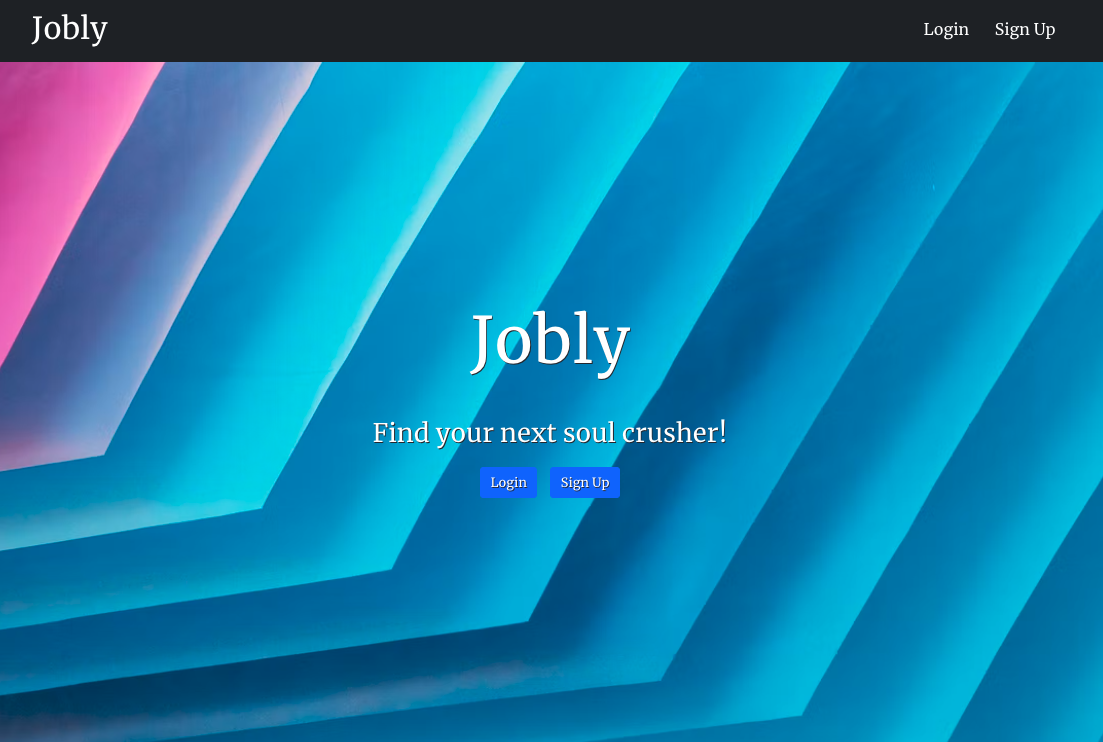
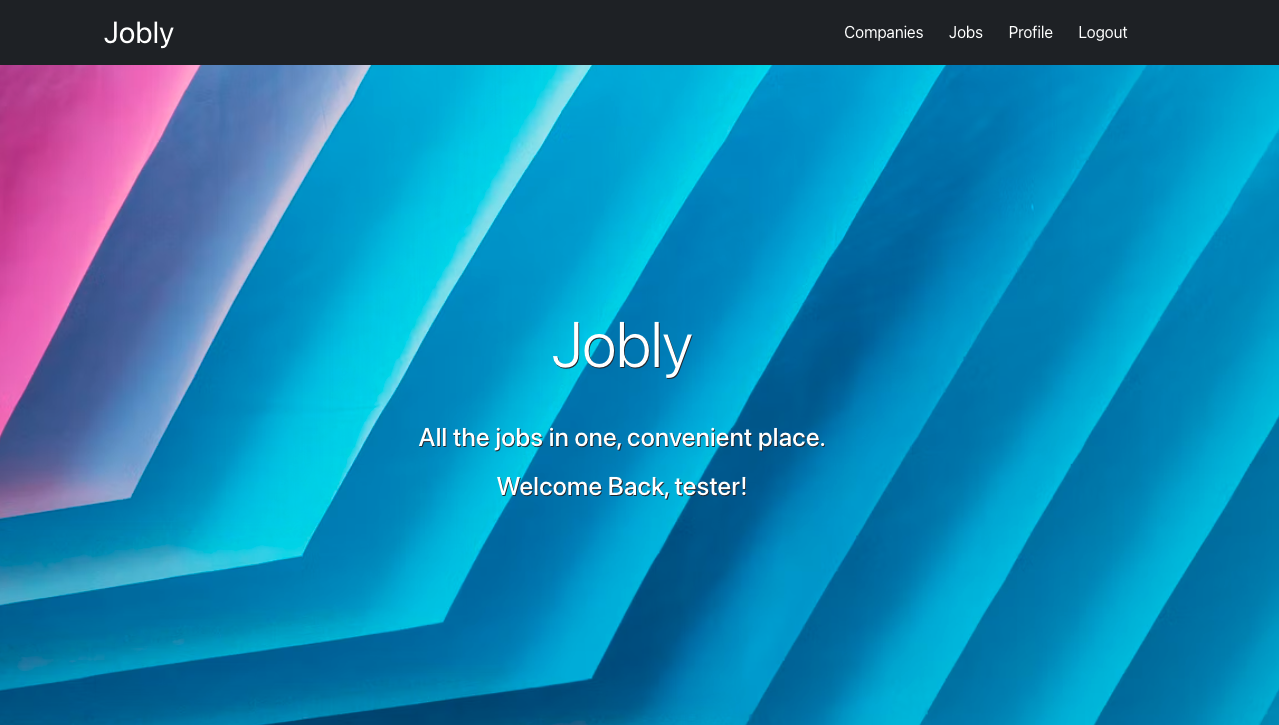
minor css/README changes

diff --git a/src/HomePage.js b/src/HomePage.js
@@ -10,7 +10,7 @@ function HomePage() {
         <section className="HomePage">
             <h1 className="mb-5 display-1 HomePage-jobly">Jobly</h1>
 
-            <h2 className="my-4">Find your next soul crusher!</h2>
+            <h2 className="my-4">All the jobs in one, convenient place.</h2>
 
             {currentUser
                 ? <h2>Welcome Back, {currentUser.firstName}!</h2>

diff --git a/src/App.css b/src/App.css
@@ -1,7 +1,7 @@
 body {
   background-image: url("https://images.unsplash.com/photo-1576502202167-791eca35a78d?ixlib=rb-1.2.1&ixid=MnwxMjA3fDB8MHxwaG90by1wYWdlfHx8fGVufDB8fHx8&auto=format&fit=crop&w=1181&q=80");
   background-size: cover;
-  font-family: 'Merriweather', serif;
+  /* font-family: 'Merriweather', serif; */
 }
 
 .CompaniesList {
